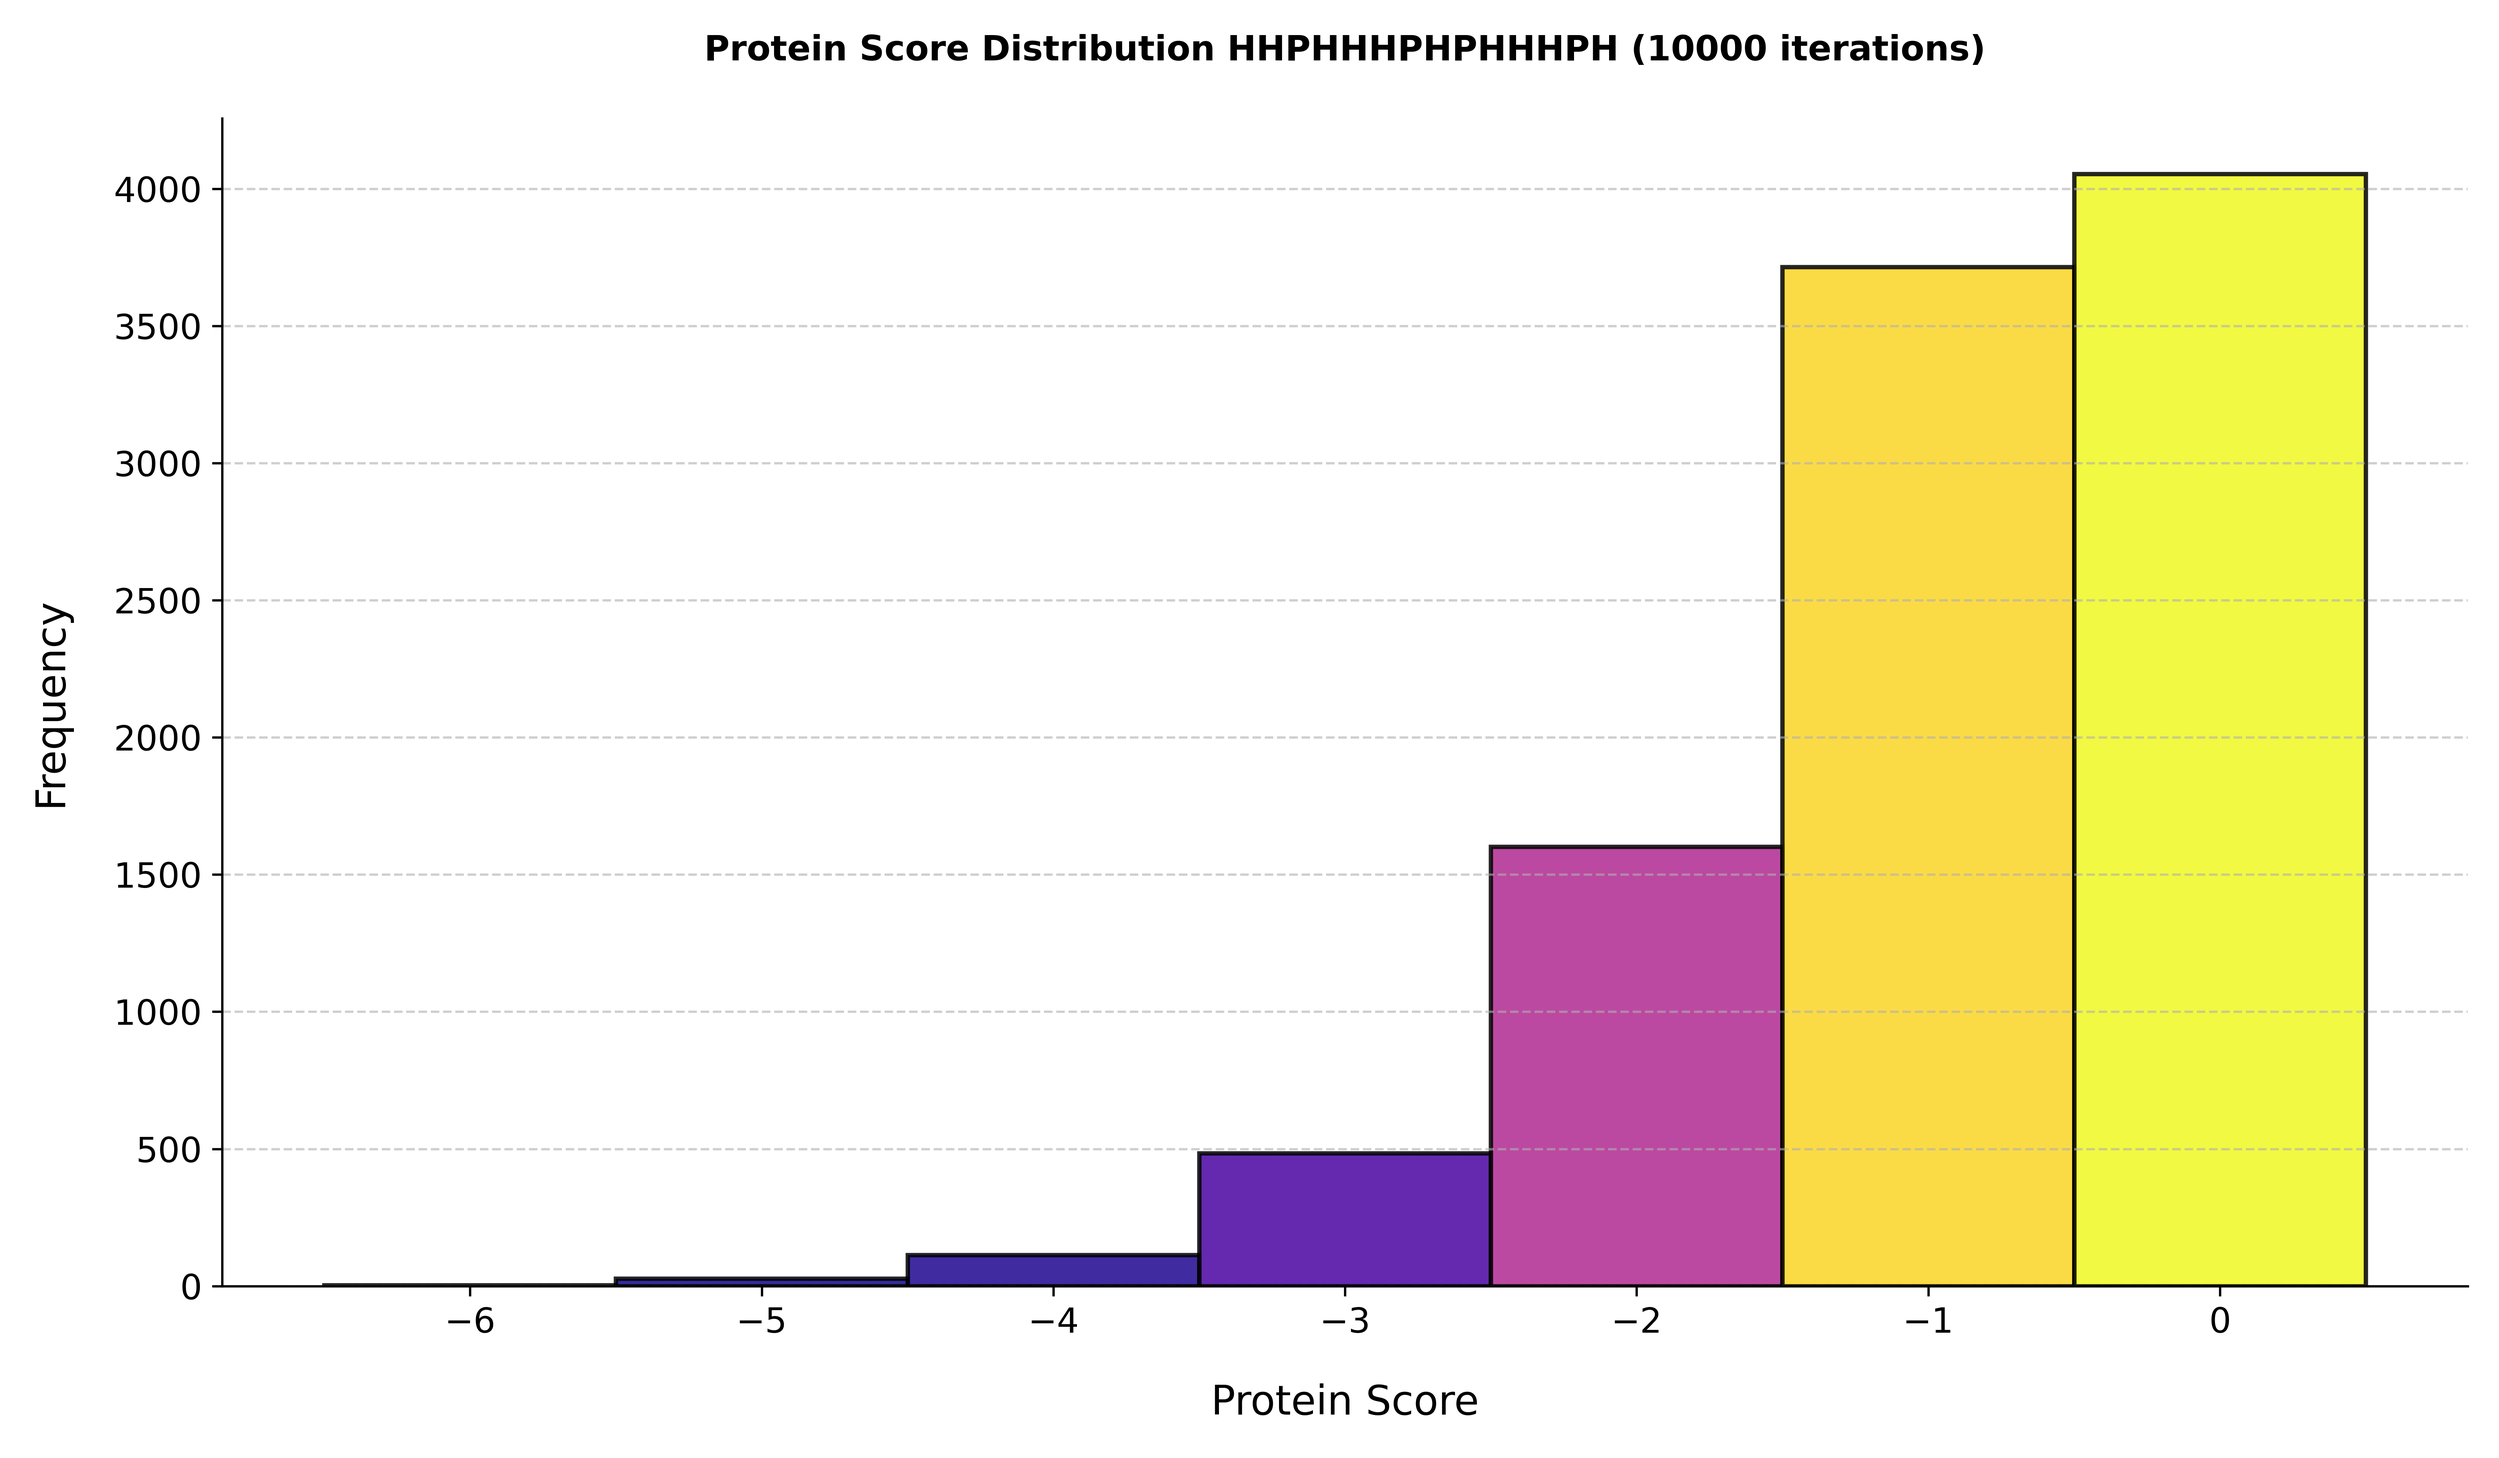
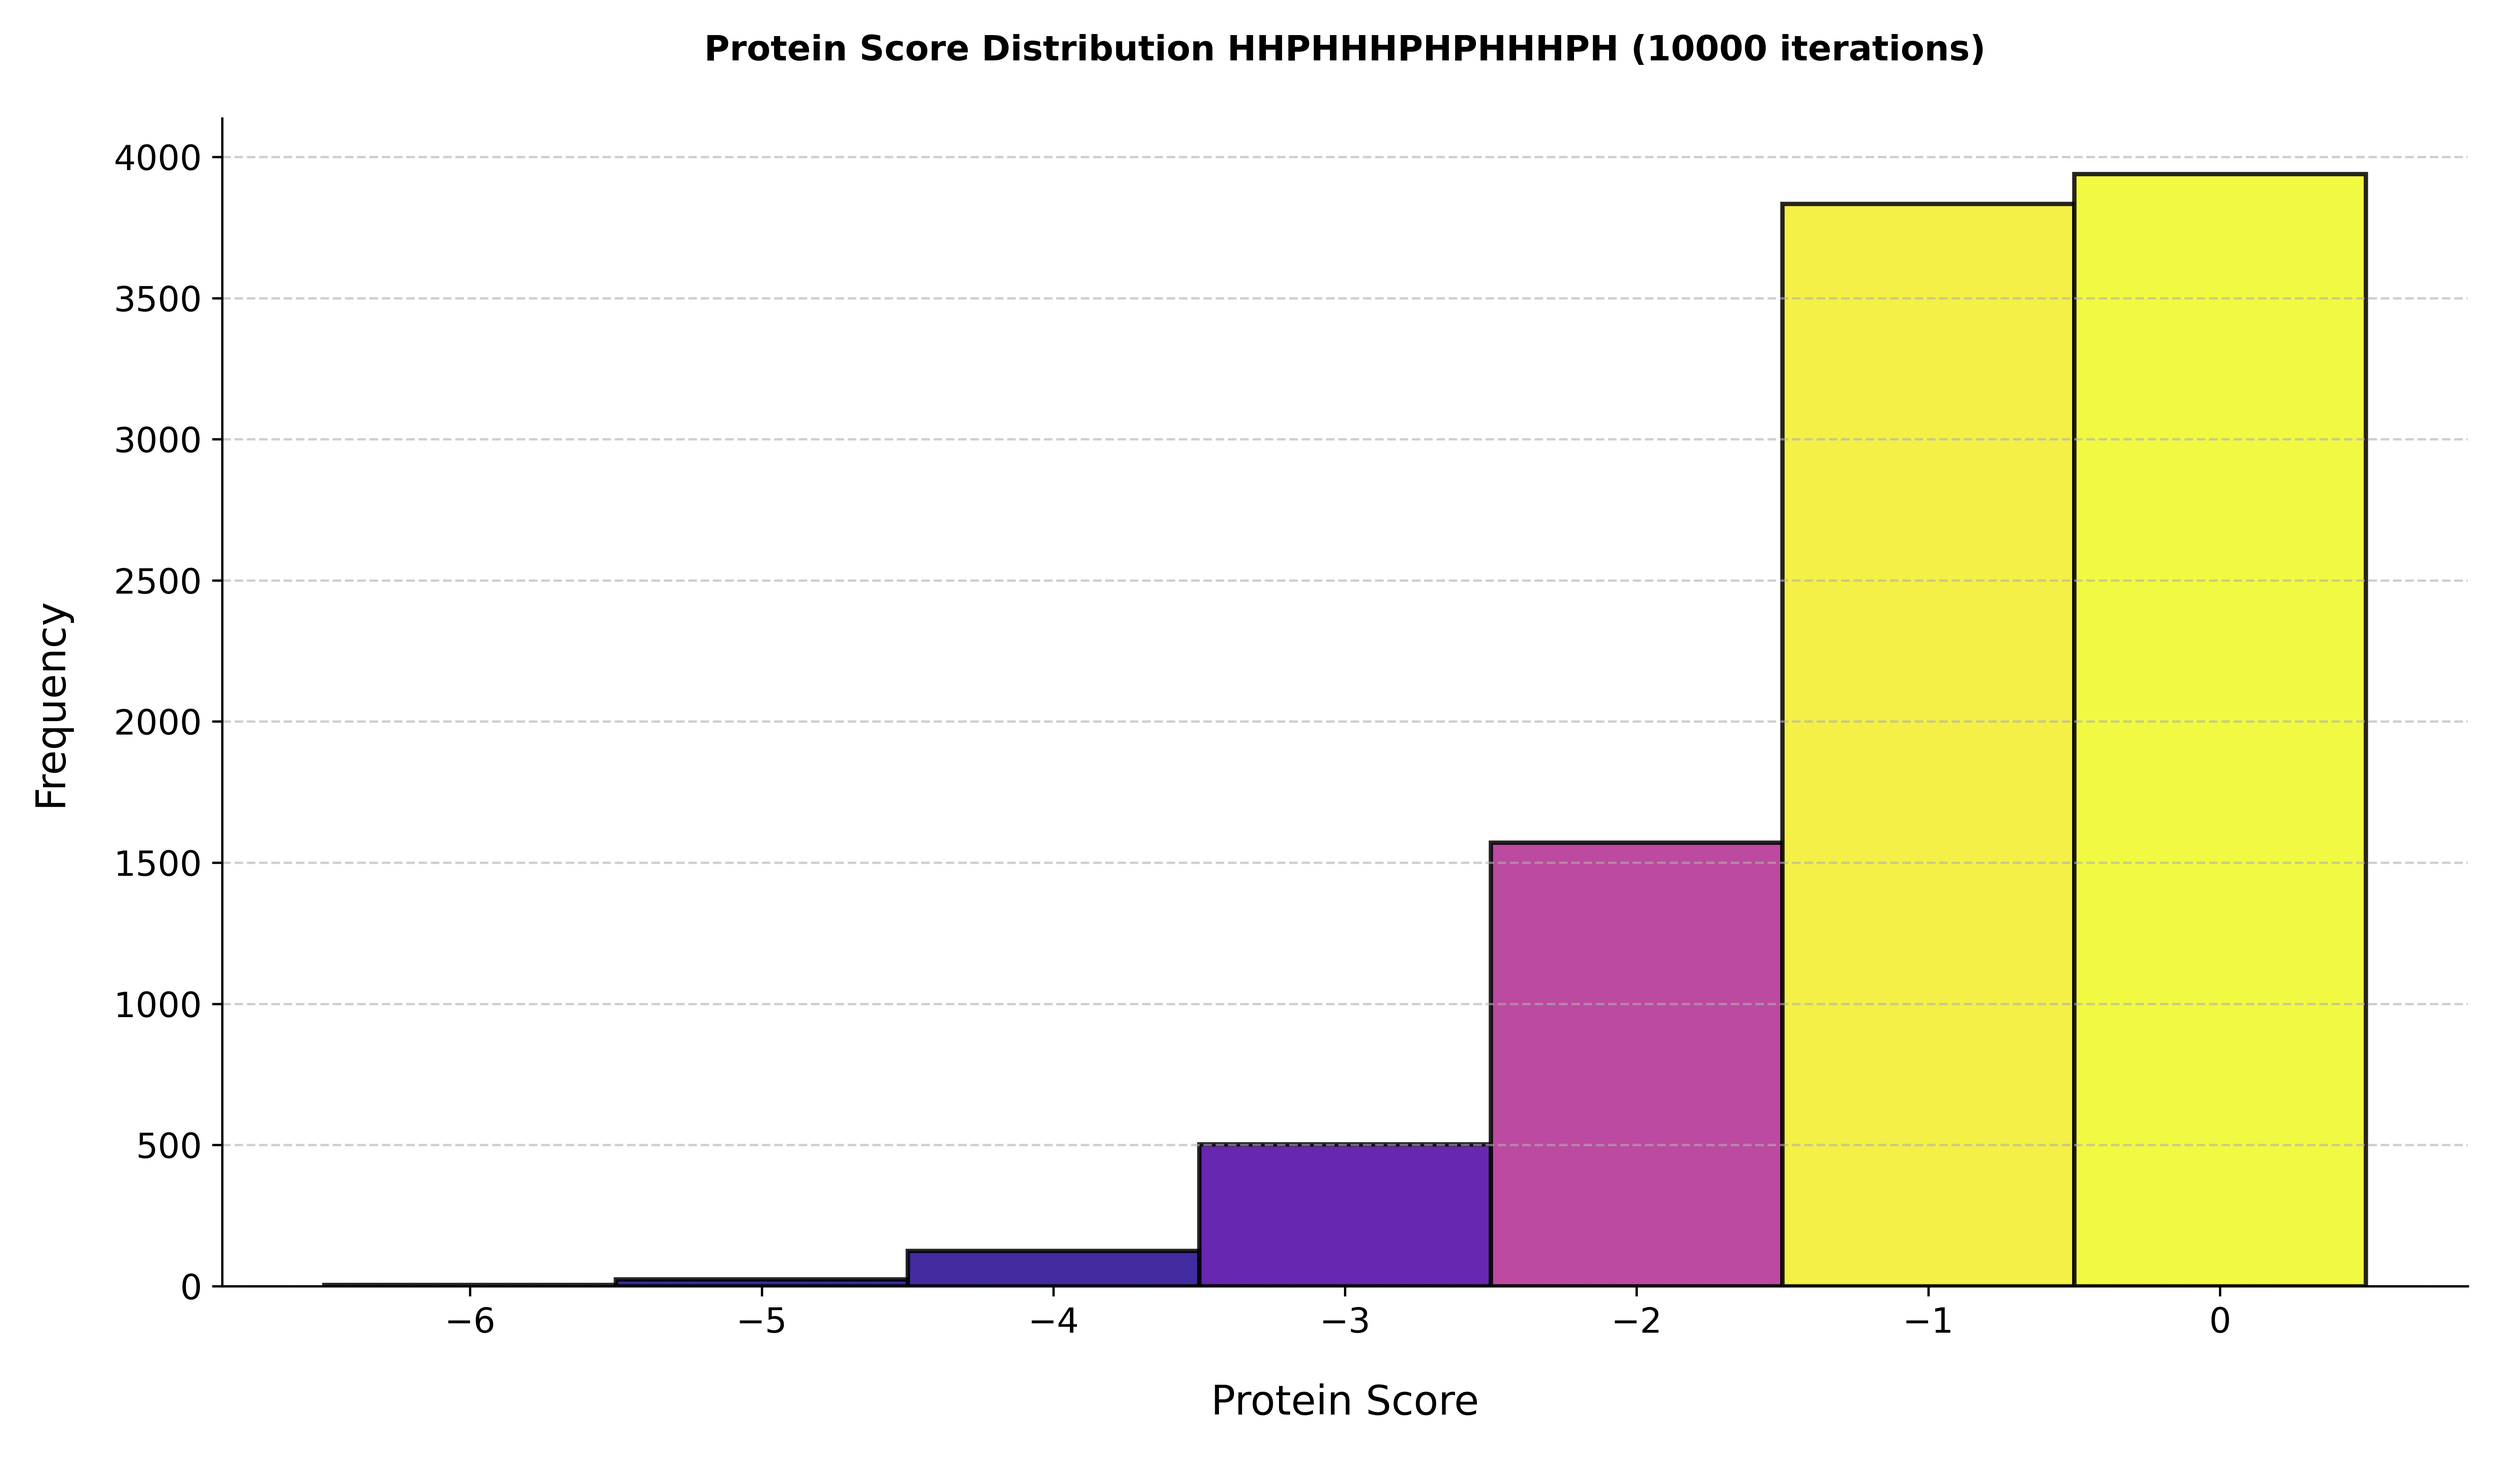
Ran the random generated foldings and saved the outputs.

diff --git a/src/visualisation/plot_functions.py b/src/visualisation/plot_functions.py
@@ -141,7 +141,7 @@ def _plot_legend(color_map: dict[str, str]) -> None:
     for amino_type, colour in color_map.items():
         plt.scatter([], [], color=colour, label = amino_type)
 
-def histogram(protein: Protein, score: list[int], iterations: int, show: bool = False, save: bool = False, file_path: str = "output") -> None:
+def histogram(protein_sequence: str, score: list[int], iterations: int, show: bool = False, save: bool = False, file_path: str = "output") -> None:
     """Creates a stylish histogram with gradient color and improved aesthetics."""
     plt.figure(figsize=(12, 7))
 
@@ -156,7 +156,7 @@ def histogram(protein: Protein, score: list[int], iterations: int, show: bool = 
     for patch, value in zip(patches, n):
         patch.set_facecolor(cmap(value / max(n)))
     
-    plt.title(f'Protein Score Distribution {protein.protein_sequence} ({iterations} iterations)', fontsize=12, fontweight='bold', pad=20)
+    plt.title(f'Protein Score Distribution {protein_sequence} ({iterations} iterations)', fontsize=12, fontweight='bold', pad=20)
     plt.xlabel('Protein Score', fontsize=14, labelpad=15)
     plt.ylabel('Frequency', fontsize=14, labelpad=15)
     

diff --git a/main.py b/main.py
@@ -20,9 +20,12 @@ if __name__ == "__main__":
     # generate_all_foldings(protein_sequences[0])
     # # Try all possible combinations
     # brute_force(protein_sequences[0], save = True)
-    pass
-    # =========================== Random ==========================
-    random = rd(protein_sequences[0])
-    random.run(show_plot = True, save_plot = True)
 
-    print(f"Best score for random algorithm: {random.best_score}")
+    # =========================== Random ===============================
+    random = rd(protein_sequences[0])
+    random.run(show_plot = True, save_plot = False)
+    # for protein_sequence in protein_sequences:
+    #     random = rd(protein_sequence)
+    #     random.run(show_plot = False, save_plot = True)
+
+    #     print(f"Best score for random algorithm for protein {protein_sequence}: {random.best_score}")

diff --git a/src/brute_force/Brute_Force.py b/src/brute_force/Brute_Force.py
@@ -7,7 +7,7 @@ from src.classes.protein import Protein
 from src.classes.grid import Grid
 from typing import Optional
 
-def brute_force(sequence: str, save: Optional[bool] = False) -> None:
+def brute_force(sequence: str, save: bool = False) -> None:
     """
     Function that brute forces every possible combination.
     Plots the best structure and prints the rating of the best structure.
@@ -24,7 +24,7 @@ def brute_force(sequence: str, save: Optional[bool] = False) -> None:
         results = pool.map(evaluate_folding_wrapper, [(sequence, folding) for folding in foldings])
 
     # Process results
-    best_structures = []
+    best_structures: list[Protein] = []
     i = 0
     for rating, structure in results:
         if rating < best_score:
